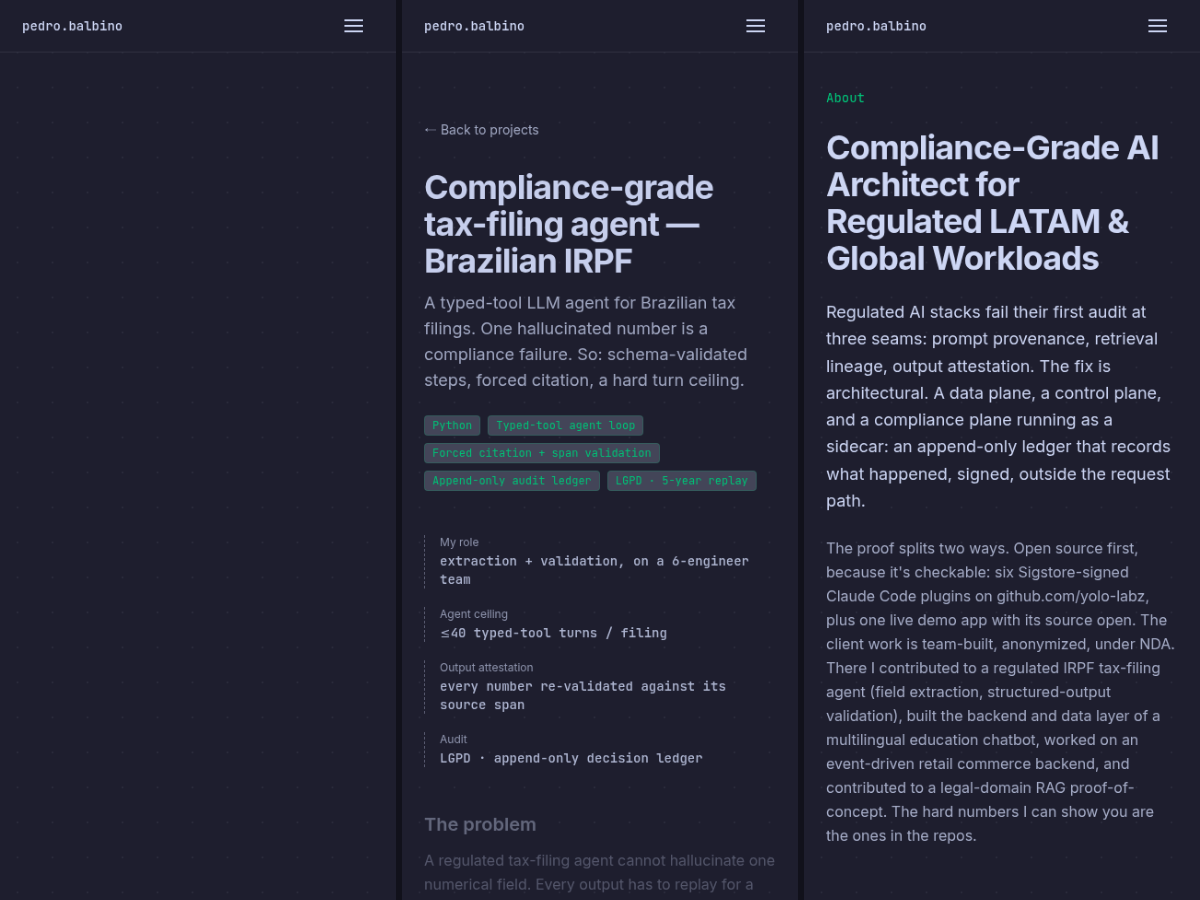
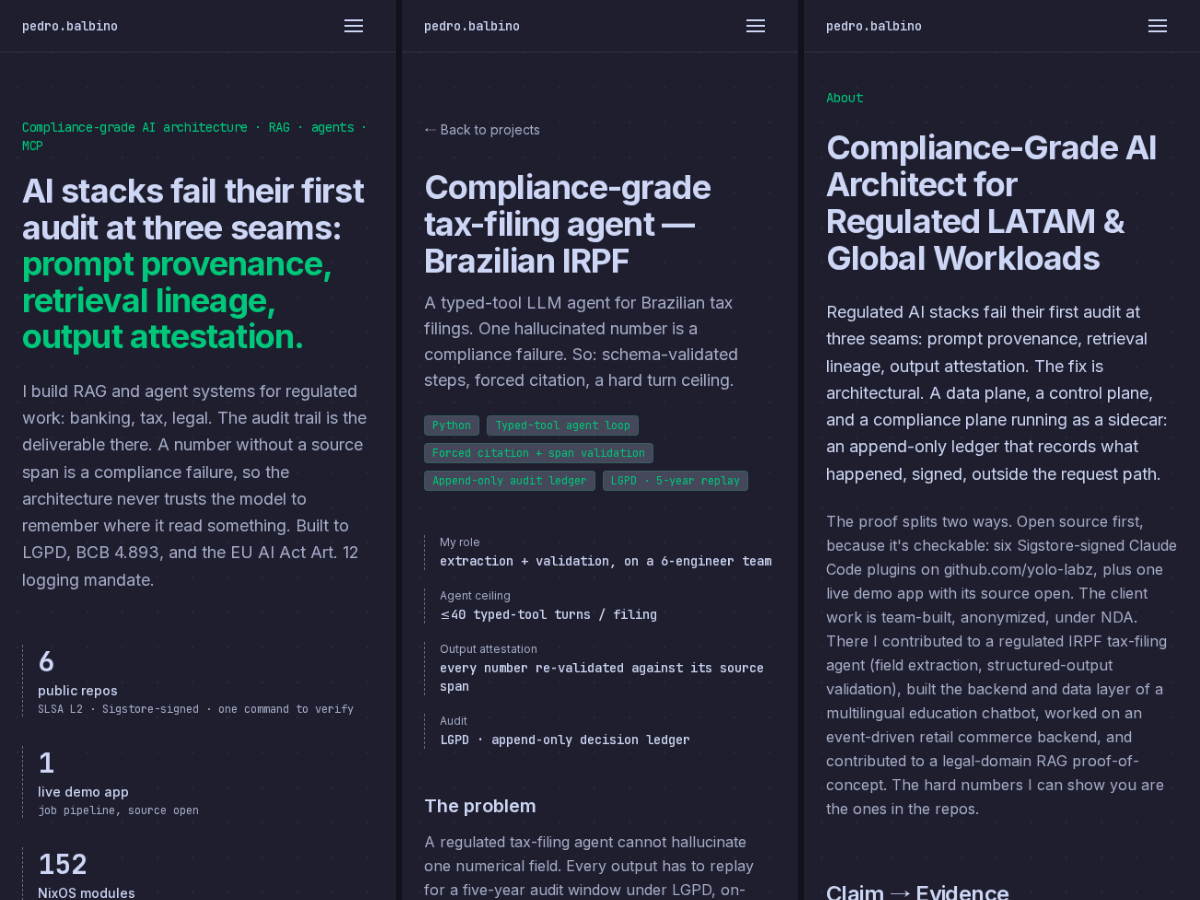
fix(portfolio): harden the retirement guard and grid capture
Second review pass found the regenerated README grid had a blank home
pane (raw Chromium flags vs the site's smooth-scroll settle) and that the
guard still had false-pass paths.

- Grid recaptured through Playwright (the visual suite's own engine) with
  instant-scroll settling; all three panes verified by eye.
- Guard walks the repo instead of a named file list: skips only archives
  (.git, specs, .specify) and dependencies/build output, treats a file as
  text unless it carries a NUL byte, and checks names as well as content,
  so a retired name in a .py/.tf file or a filename itself is caught.
- Decoded locale JSON is scanned too, closing the JSON-escape bypass.
- The census asserts retained identities and cross-checks every
  'N mixed-stack project' README claim against projects/, instead of
  hardcoding a directory count.
- README trade-off line no longer claims project wrappers are built and
  visual-regressed by the single CI workflow; it says what runs.

diff --git a/README.md b/README.md
@@ -30,7 +30,7 @@ Live at [pedro.home301server.com.br](https://pedro.home301server.com.br/). One p
 
 **Pattern.** Turborepo monorepo housing a Next.js 16 portfolio site, a shared `packages/ui` component library exported as raw TypeScript source (no build step), and 2 mixed-stack project case-study subfolders (TypeScript + Python + Terraform) wired into a single Turbo task graph.
 
-**Trade-off.** Monorepo tooling overhead — pnpm workspaces, Turbo remote cache, Biome 2.x as the single lint+format authority — in exchange for a shared component library, atomic deploys, and one CI workflow that lints, type-checks, builds, and visual-regresses every workspace on every push.
+**Trade-off.** Monorepo tooling overhead — pnpm workspaces, Turbo remote cache, Biome 2.x as the single lint+format authority — in exchange for a shared component library, atomic deploys, and one CI workflow that runs the workspace task graph (lint, type-check, build) plus the site's visual regression on every push.
 
 **Use when.** Shipping a portfolio that needs to host multiple capability case-studies (executive job board, serverless data API) in one monorepo, with a single site deploy surface and design system.
 
